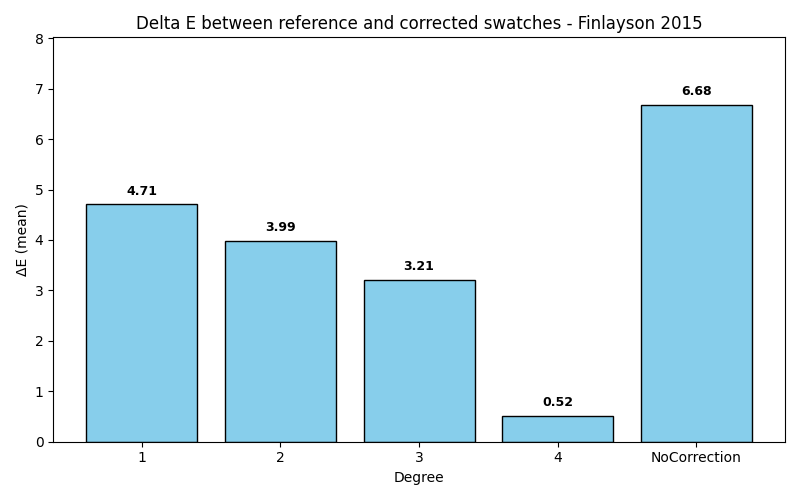
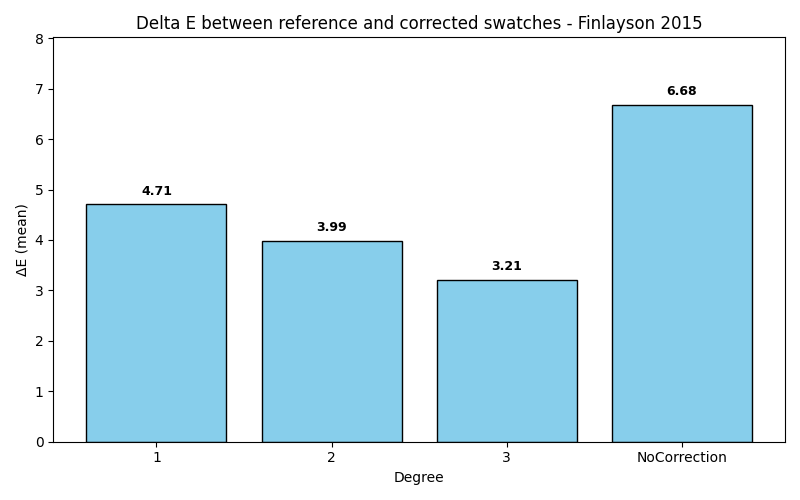
plot chart gridsearch

diff --git a/Normalization/deltaE_Chart.py b/Normalization/deltaE_Chart.py
@@ -15,6 +15,9 @@ with open(json_path, "r") as f:
 # Loop through all methods except "NoCorrection"
 for method in [m for m in data.keys() if m != "NoCorrection"]:
     categories = list(data[method].keys())
+    categories = [
+        c for c in categories if np.array(data[method][c]["corrected_image"]).any()
+    ]
     values = [np.mean(data[method][deg]["swatches"]) for deg in categories]
 
     # Add "NoCorrection" reference
